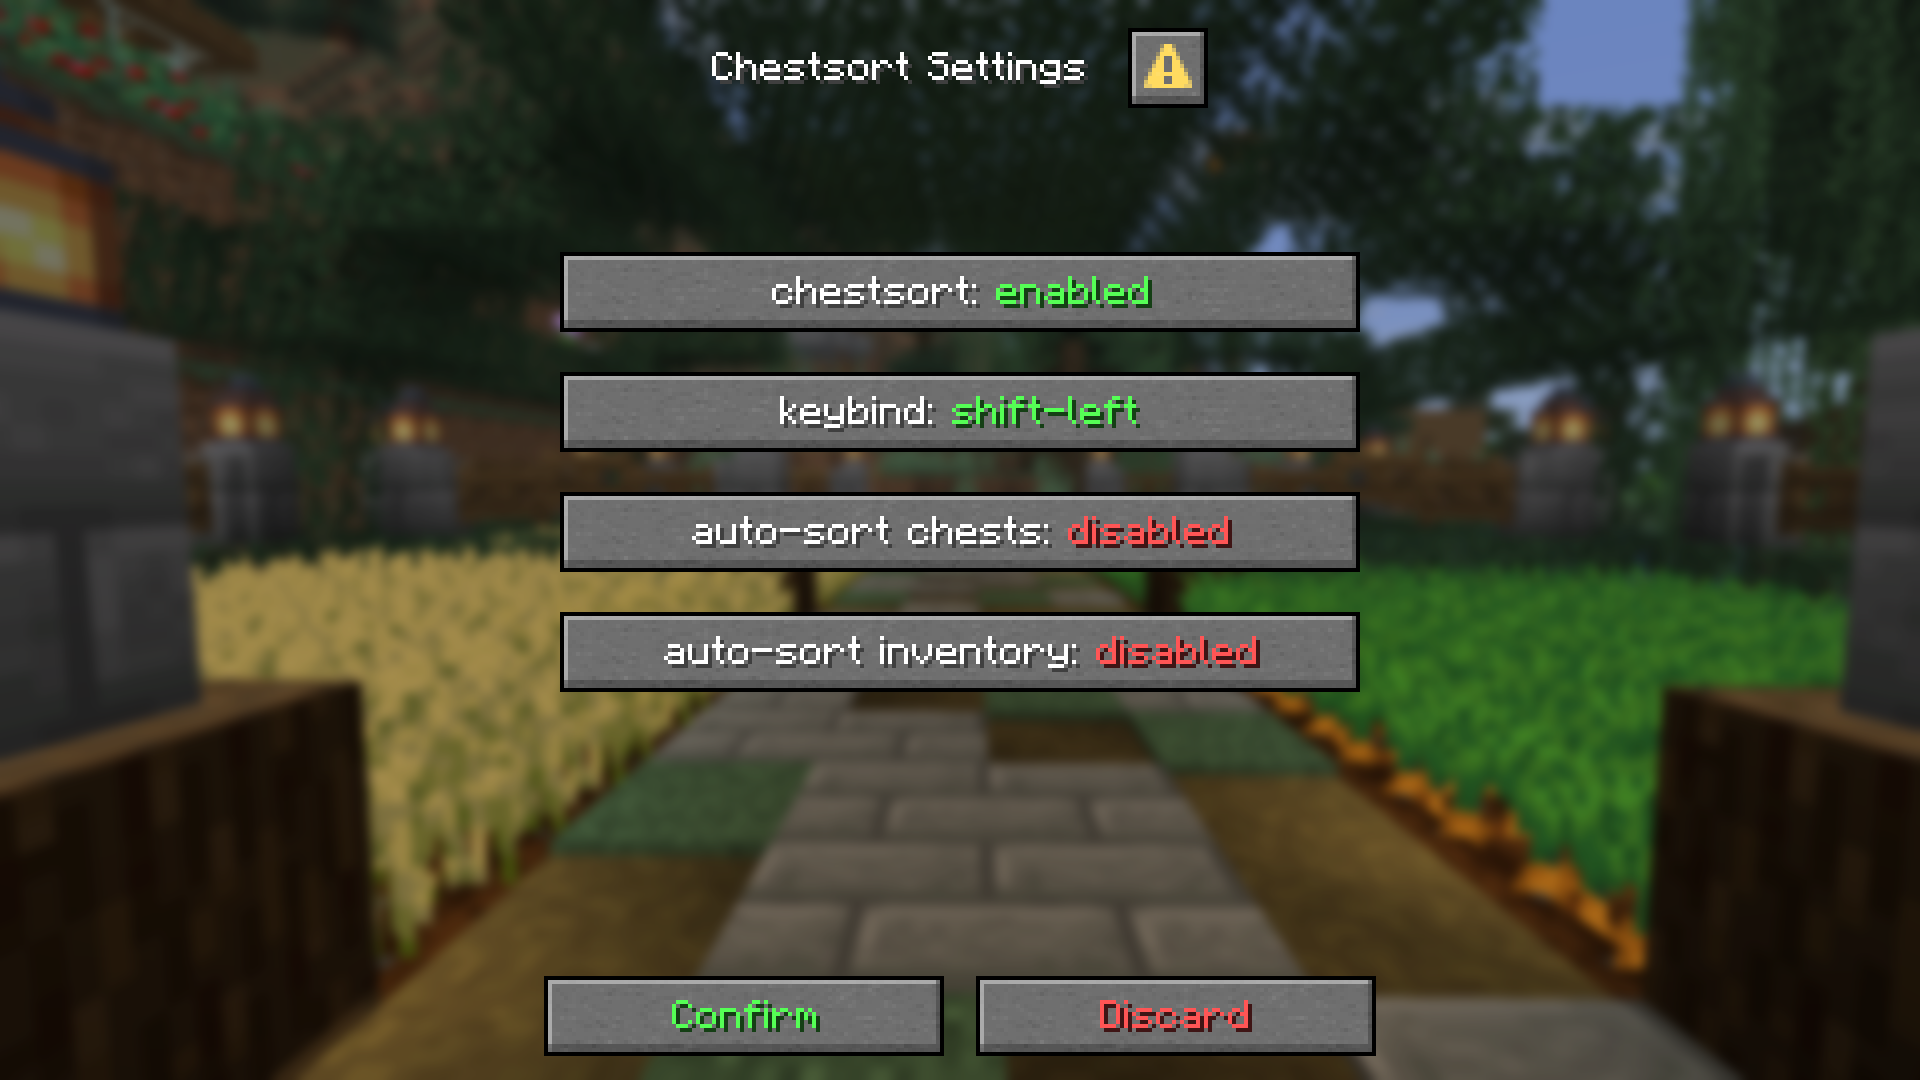
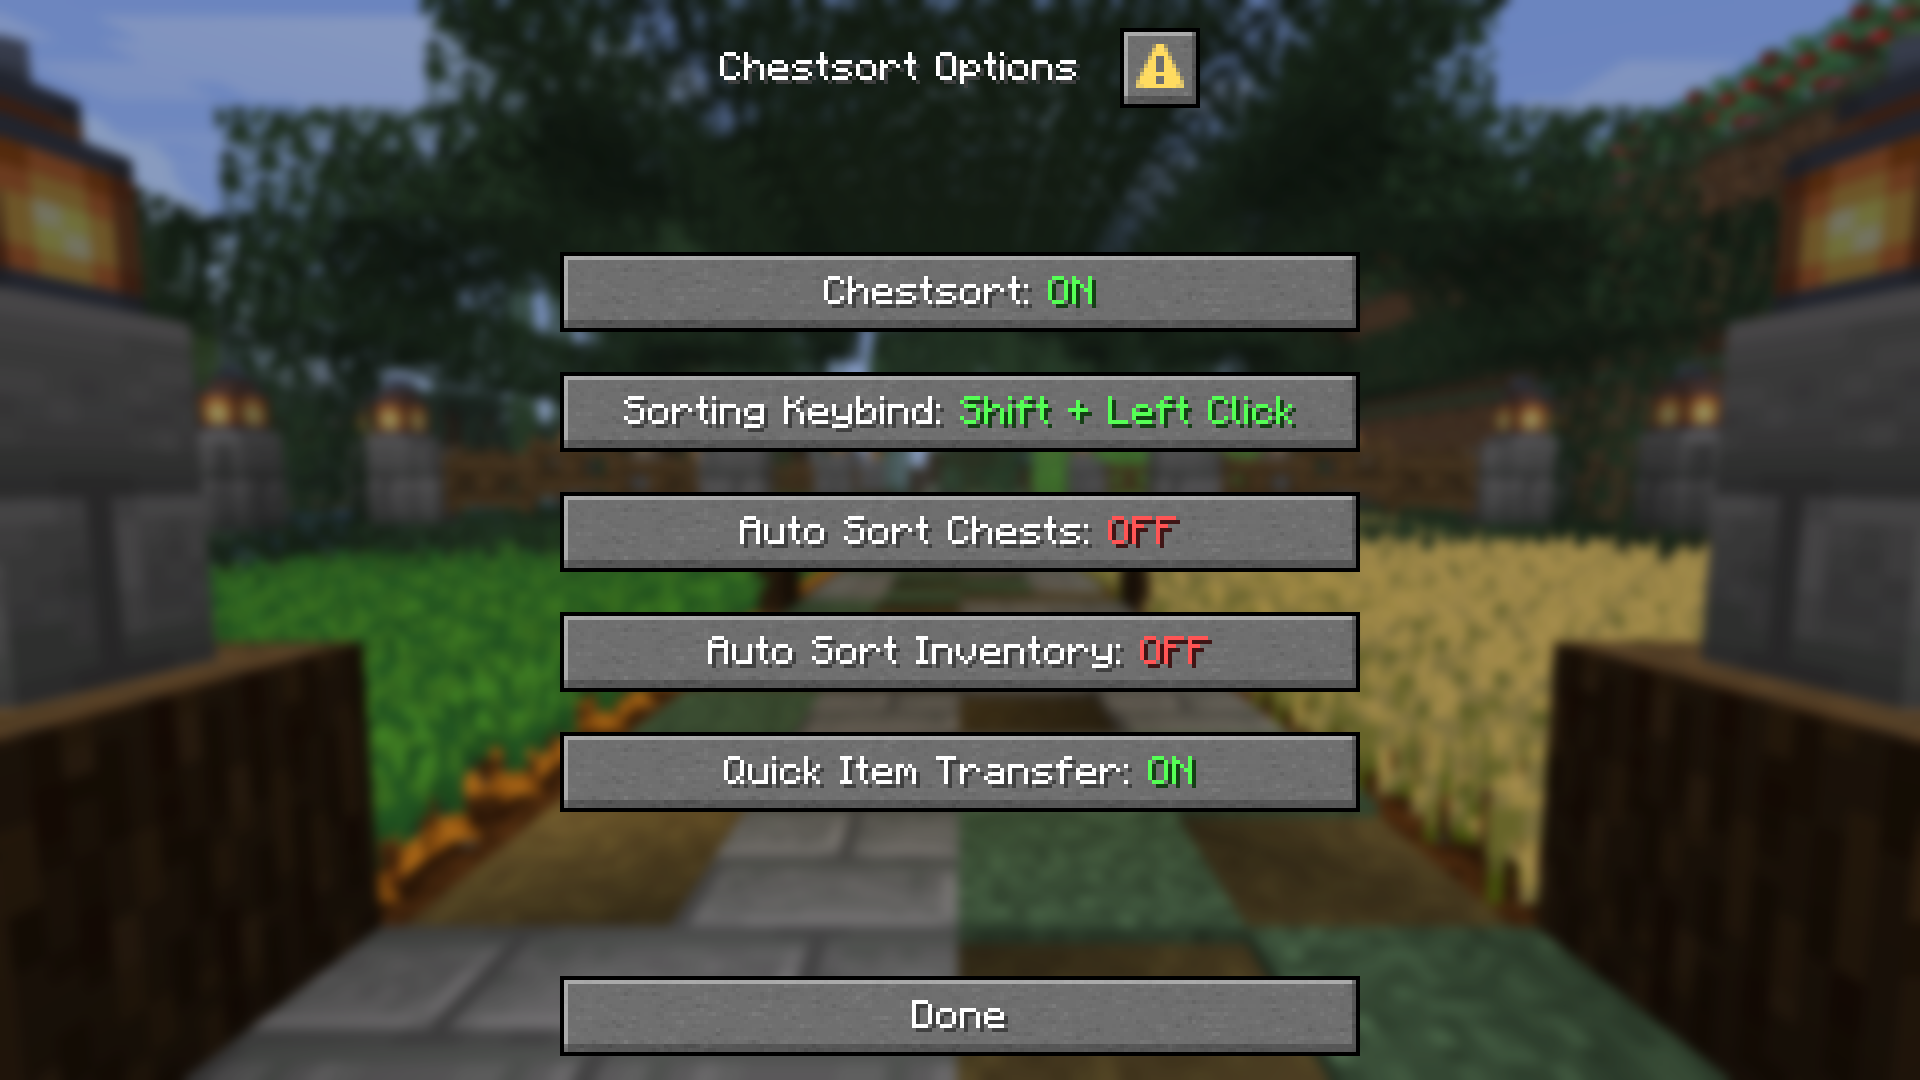
update readme

diff --git a/README.md b/README.md
@@ -1,9 +1,18 @@
 # Chestsort+
 
-Chestsort+ is a modern, lightweight PaperMC plugin that lets players sort chests, other containers, and their own
-inventory by shift-clicking an empty inventory slot.
+Chestsort+ is a modern, lightweight PaperMC plugin that lets players sort their inventory, chests and other containers.
+Players can sort manually with a configurable keybind and enable automatic sorting on a per-player basis.
+With the quick transfer feature, players can move matching items or all possible items between their inventory and open
+containers.
+Players can configure all features through a modern dialog interface.
 
-| Chest Sorting                            | Settings Dialog                         |
+- The player's inventory and hotbar can be sorted separately
+- Items are sorted based on the creative inventory order
+- The order of the categories can be configured in `config.yml`
+- Matching items are stacked together when sorting
+- Donkey and llama inventories are supported
+
+| Chest Sorting                            | Chestsort Options                       |
 |------------------------------------------|-----------------------------------------|
 | <img src="readme/sort.gif" height="240"> | <img src="readme/gui.png" height="240"> |
 
@@ -13,8 +22,18 @@ inventory by shift-clicking an empty inventory slot.
 
 ## Commands
 
-| Command              | Description                                                | Permission        |
-|----------------------|------------------------------------------------------------|-------------------|
-| `/chestsort`         | Open the chestsort settings dialog                         | `chestsort.use`   |
-| `/chestsort reload`  | Reloads the plugin’s configuration files                   | `chestsort.admin` |
-| `/chestsort version` | Displays the current plugin version and checks for updates | `chestsort.admin` |
+| Command              | Description                                        | Permission        |
+|----------------------|----------------------------------------------------|-------------------|
+| `/chestsort`         | Opens the Chestsort Options dialog                 | `chestsort.use`   |
+| `/chestsort reload`  | Reloads the plugin's configuration files           | `chestsort.admin` |
+| `/chestsort version` | Displays the plugin version and checks for updates | `chestsort.admin` |
+
+## Keybind Actions
+
+| Action                          | Keybinds                                                                       | Description                                                                               |
+|---------------------------------|--------------------------------------------------------------------------------|-------------------------------------------------------------------------------------------|
+| Sort inventory                  | `Shift + Left Click`, `Shift + Right Click` or `Double Click` on an empty slot | Sorts the clicked inventory section or container, depending on configured sorting keybind |
+| Quick transfer to container     | `Left Click` outside the inventory                                             | Moves matching items from the player inventory into the open container                    |
+| Quick transfer to player        | `Right Click` outside the inventory                                            | Moves matching items from the open container into the player inventory                    |
+| Transfer all items to container | `Double Left Click` outside the inventory                                      | Moves all possible items from the player's inventory into the open container              |
+| Transfer all items to player    | `Double Right Click` outside the inventory                                     | Moves all possible items from the open container into the player's inventory              |
